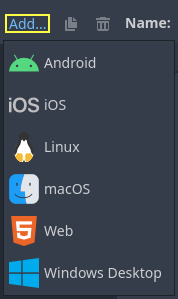
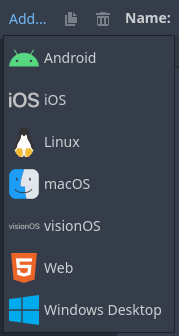
Document that VisionOS is supported

diff --git a/tutorials/xr/setting_up_xr.rst b/tutorials/xr/setting_up_xr.rst
@@ -9,7 +9,12 @@ Introduction to the XR system in Godot
 Godot provides a modular XR system that abstracts many of the different XR platform specifics away from the user.
 At the core sits the :ref:`XRServer <class_xrserver>` which acts as a central interface to the XR system that allows users to discover interfaces and interact with the components of the XR system.
 
-Each supported XR platform is implemented as an :ref:`XRInterface <class_xrinterface>`. Supported interfaces register themselves with the :ref:`XRServer <class_xrserver>` and can be queried with the ``find_interface`` method on the :ref:`XRServer <class_xrserver>`. When the desired interface is found it can be initialized by calling ``initialize`` on the interface.
+Each supported XR platform is implemented as an :ref:`XRInterface <class_xrinterface>`.
+A list of supported platforms can be found on the list of features page :ref:`here <doc_xr_support>`.
+Supported interfaces register themselves with the :ref:`XRServer <class_xrserver>`
+and can be queried with the ``find_interface`` method on the :ref:`XRServer <class_xrserver>`.
+When the desired interface is found it can be initialized by calling ``initialize``
+on the interface.
 
 .. warning::
     A registered interface means nothing more than that the interface is available, if the interface is not supported by the host system, initialization may fail and return ``false``. This can have many reasons and sadly the reasons differ from platform to platform. It can be because the user hasn't installed the required software, or that the user simply hasn't plugged in their headset. You as a developer must thus react properly on an interface failing to initialize.

diff --git a/about/list_of_features.rst b/about/list_of_features.rst
@@ -652,6 +652,8 @@ Mobile
   and :ref:`iOS <doc_plugins_for_ios>`.
 - Support for advertisements using third-party modules.
 
+.. _doc_xr_support:
+
 XR support (AR and VR)
 ----------------------
 
@@ -663,6 +665,11 @@ XR support (AR and VR)
 
   - Including support for popular stand alone headsets like the Meta Quest 1/2/3 and Pro, Pico 4, Magic Leap 2, and Lynx R1.
 
+- Out of the box limited support for visionOS Apple headsets.
+
+  - Currently only exporting an application for use on a flat plane within the
+    headset is supported. Immersive experiences are not supported.
+ 
 - Other devices supported through an XR plugin structure.
 - Various advanced toolkits are available that implement common features required by XR applications.
 
